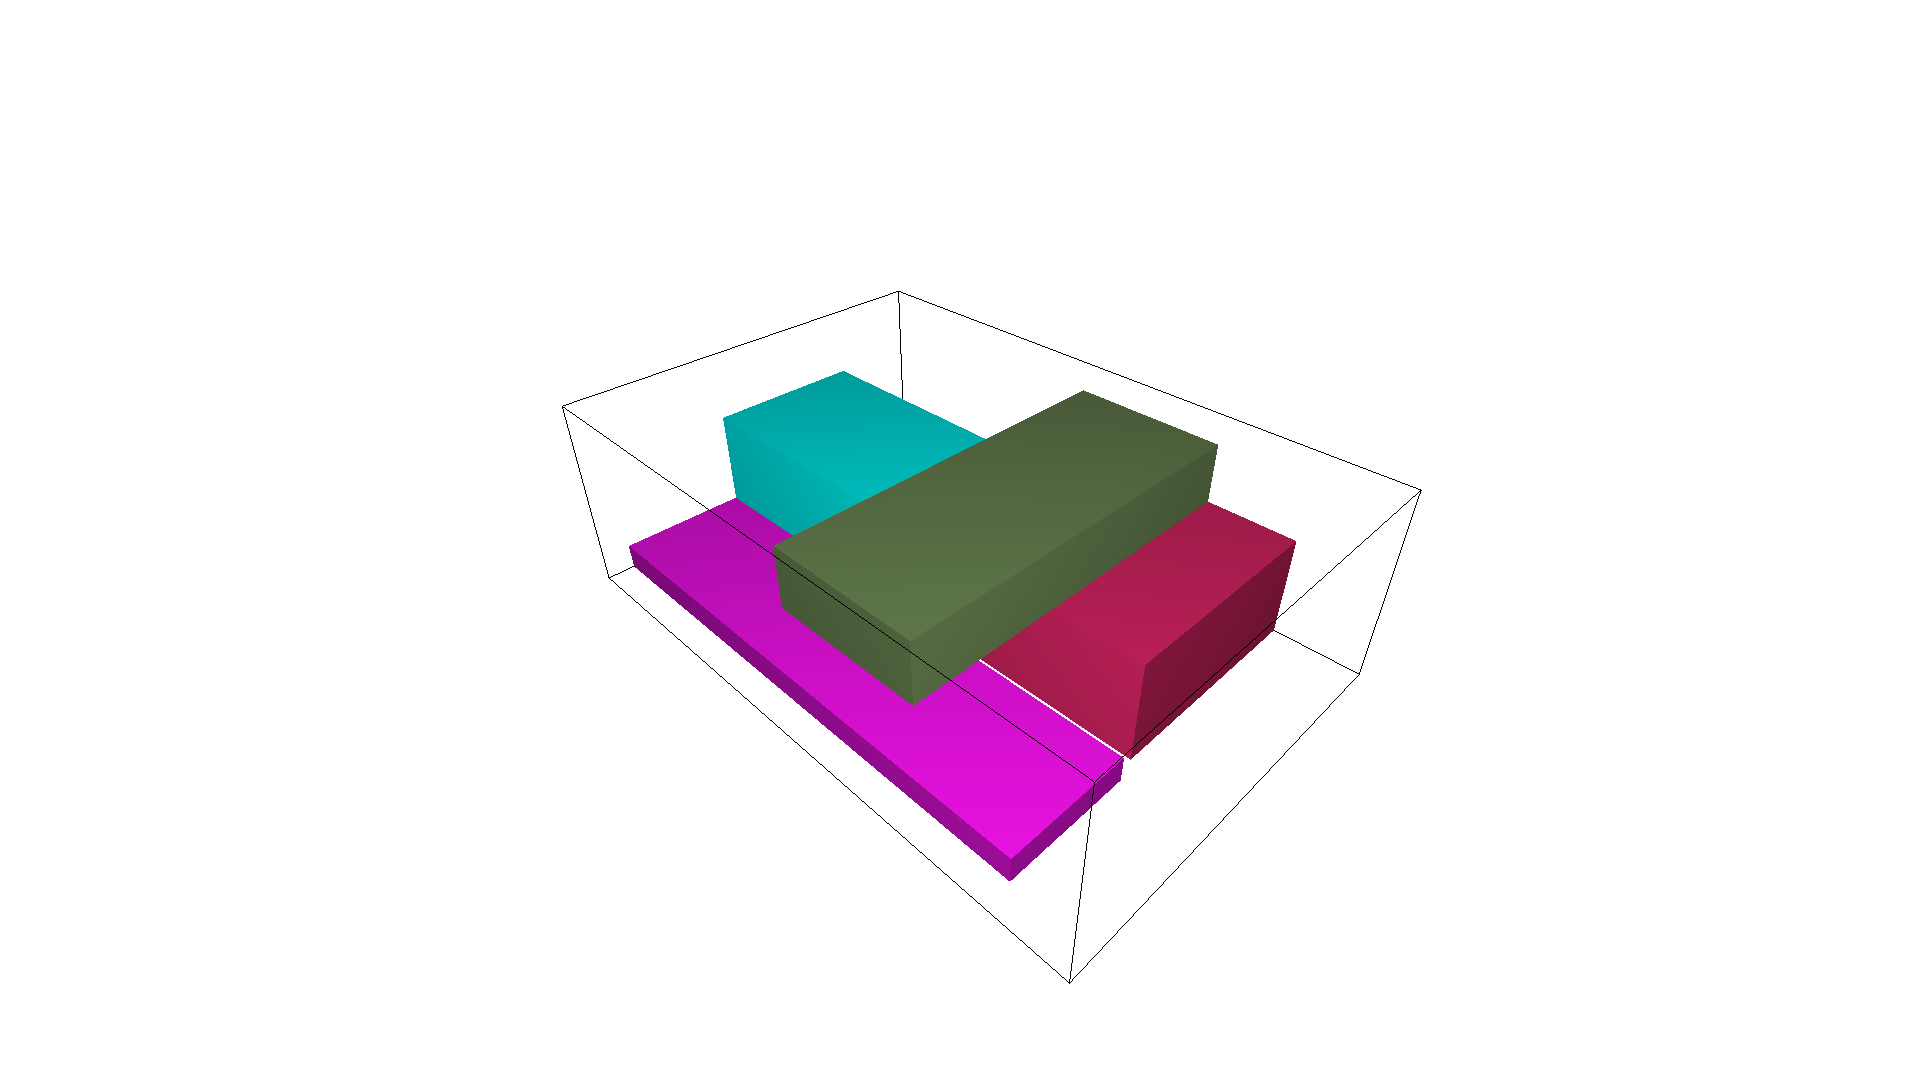
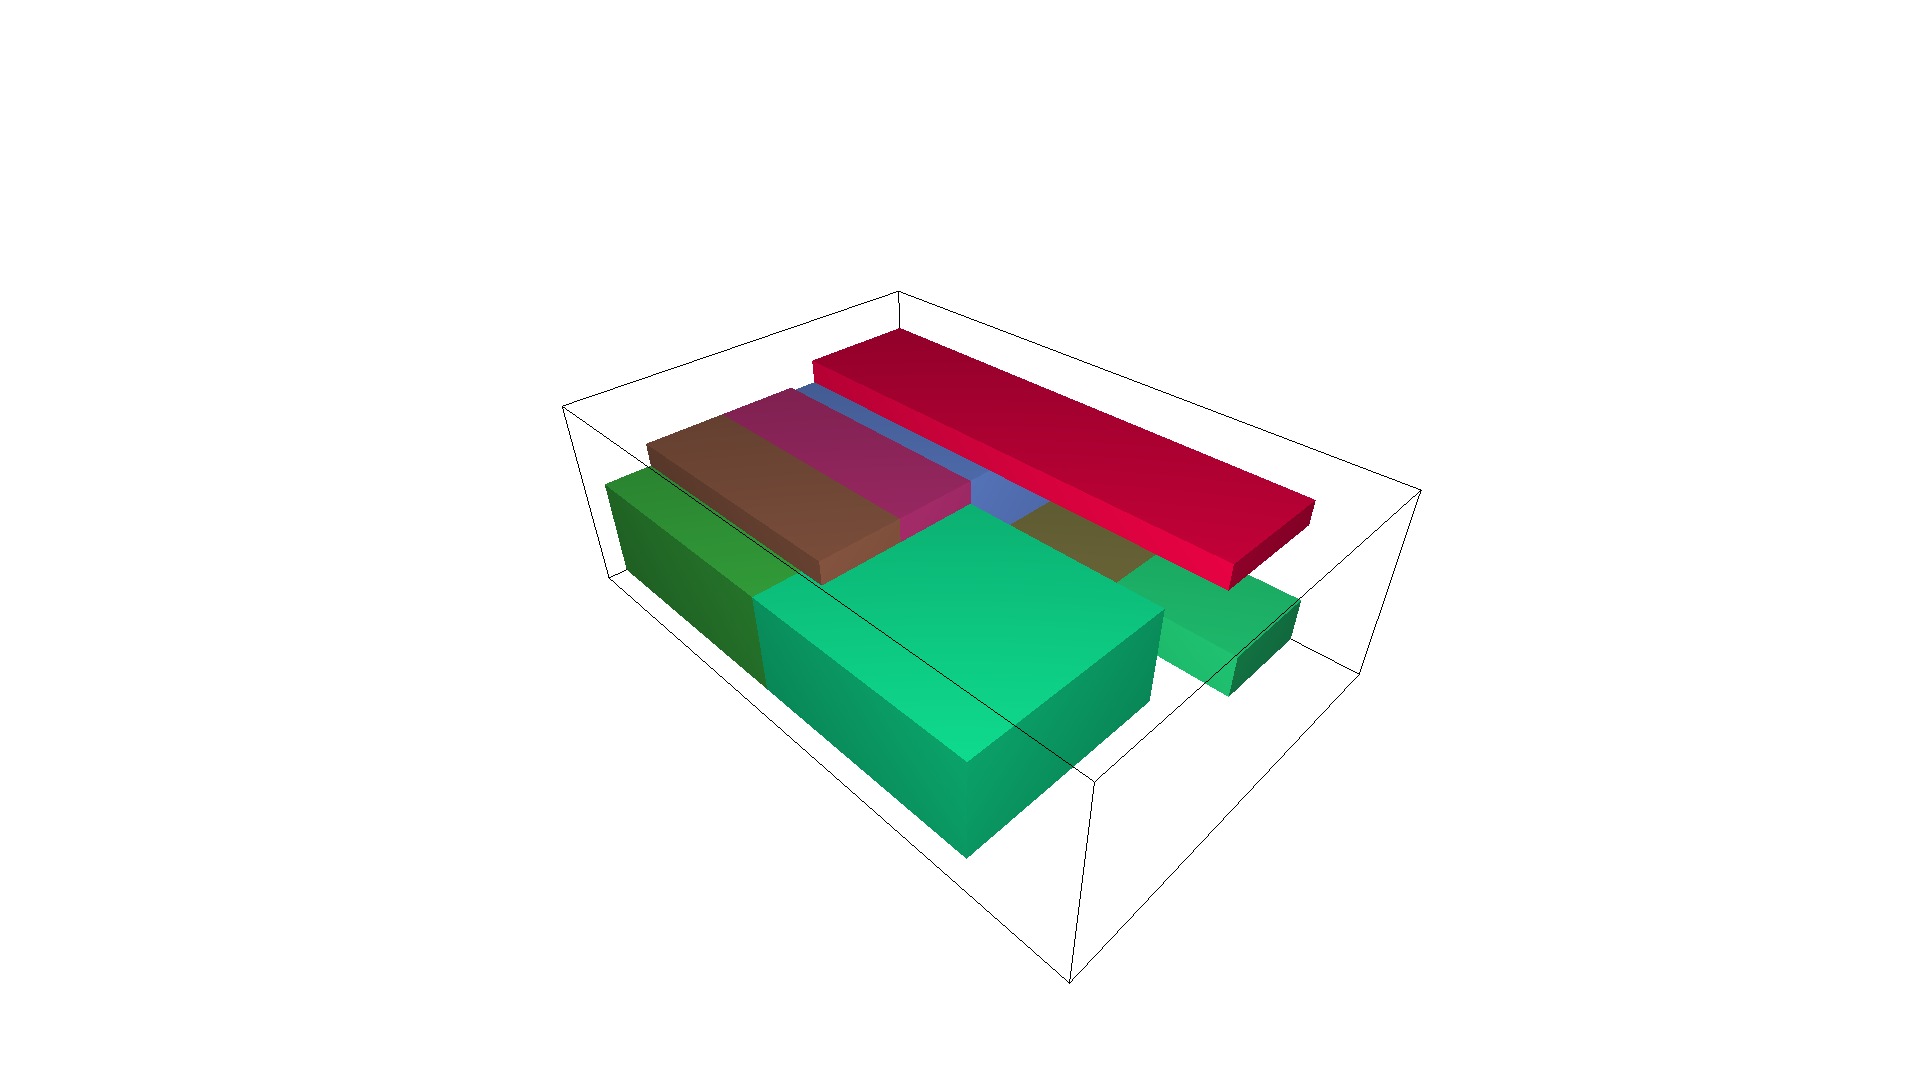
Containermenge auf 1 begrenzt

Changed region(s): [[0.3125, 0.3056, 0.6875, 0.825]]

diff --git a/pkg_pack_node/pkg_pack_node/Classes/solution.py b/pkg_pack_node/pkg_pack_node/Classes/solution.py
@@ -152,9 +152,10 @@ class Solution:
                         self.index_selected_container = index_container_all_rest_packages # Verwende den Container, der alle restlichen Packstücke packt als Lösungskomponente
     '''Ende der Funktionen für das Greedy Verfahren'''
     def print_packplan(self):
-        for container in self.containers:
-            container.save_packplan()
-            container.save_container()
+        # for container in self.containers:
+        container = self.containers[0]        
+        container.save_packplan()
+        container.save_container()
 
 
     # Visualisiere die Container in der Lösung
@@ -165,12 +166,13 @@ class Solution:
         offset_x=0
         offset_x_delta=100
         
-        for container in self.containers:
-            for geo in container.get_geometry(offset_x=offset_x):
-                vis.add_geometry(geo)
-            
-            offset_x+=offset_x_delta
-            offset_x+=container.container.width
+        # for container in self.containers:
+        container = self.containers[0]
+        for geo in container.get_geometry(offset_x=offset_x):
+            vis.add_geometry(geo)
+        
+        offset_x+=offset_x_delta
+        offset_x+=container.container.width
       
         # Hole die ViewControl-Instanz
         view_control = vis.get_view_control()

diff --git a/pkg_pack_node/pkg_pack_node/PackAlgorithm_Server.py b/pkg_pack_node/pkg_pack_node/PackAlgorithm_Server.py
@@ -27,7 +27,7 @@ class PackItemsService(Node):
         
         # Aktiviere folgende Zeile für Testzwecke
         # items = ["Box_Gluehlampe", "Box_Bremsbacke", "Keilriemen_klein", "Tuete"]
-        items = ["Box_Gluehlampe", "Box_Wischblatt", "Keilriemen_gross", "Box_Bremsbacke", "Keilriemen_klein", "Tuete"]
+        items = ["Box_Gluehlampe", "Box_Wischblatt", "Keilriemen_gross", "Box_Bremsbacke", "Keilriemen_klein", "Tuete", "Box_Gluehlampe", "Box_Bremsbacke", "Keilriemen_klein", "Tuete"]
         
         # Aktiviere folgende Zeile für normale Funktionalität
         # items = request.objects_to_pick
